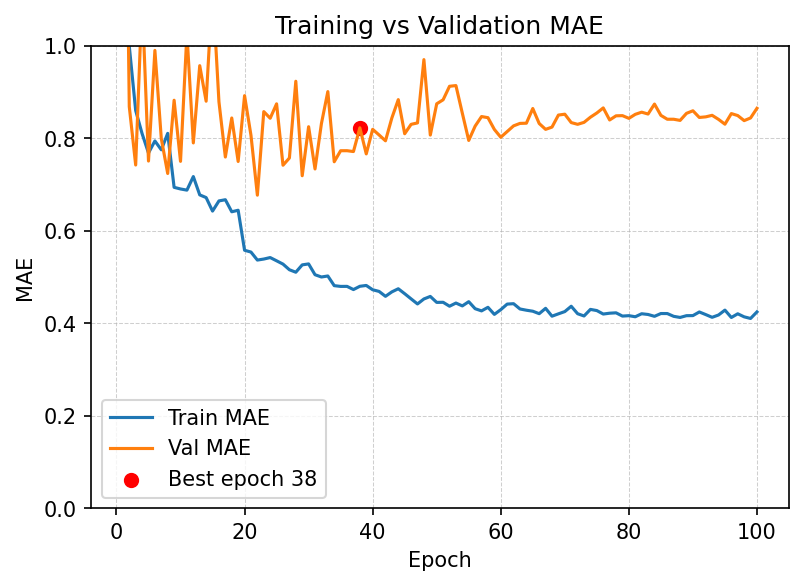
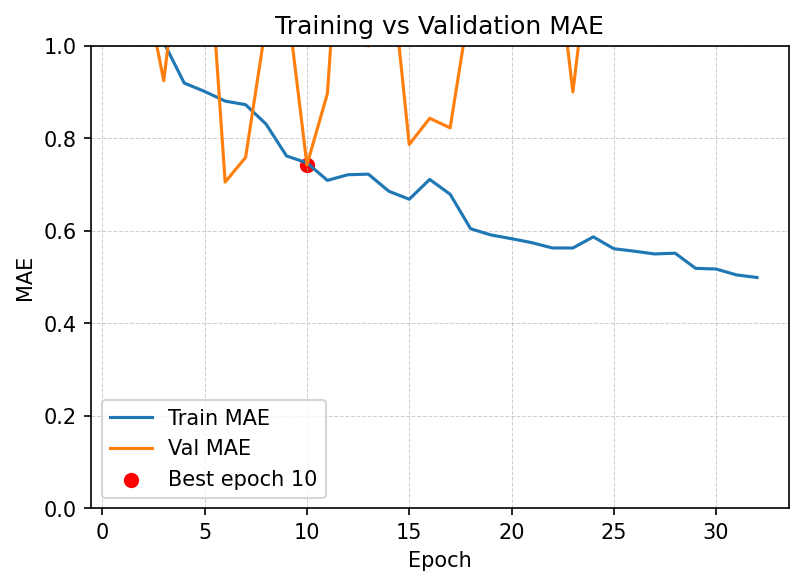
lr reset

diff --git a/models/model_v8/train.py b/models/model_v8/train.py
@@ -31,7 +31,7 @@ class TrainConfig:
     rgb_dir: str = '../../datasets/Training/Augmented_v8/RGBImages'
     depth_dir: str = '../../datasets/Training/Augmented_v8/DepthImages'
 
-    batch_size: int = 32
+    batch_size: int = 128
     num_epochs: int = 100
     lr: float = 1e-3
     weight_decay: float = 1e-5
@@ -45,7 +45,7 @@ class TrainConfig:
     outputs_per_original: int = 41
     num_folds: int = 1
     group_by_original: bool = True
-    val_only_originals: bool = True
+    val_only_originals: bool = False
 
     preload_to_gpu: bool = True
     preload_device: str = 'cuda'
@@ -269,6 +269,16 @@ def decay_block_warmups(tracker: Dict[Tuple[str, int], Dict[str, int]]) -> None:
             to_remove.append(key)
     for key in to_remove:
         tracker.pop(key, None)
+
+
+def _create_scheduler(optimizer: optim.Optimizer, cfg: TrainConfig):
+    return optim.lr_scheduler.ReduceLROnPlateau(
+        optimizer,
+        mode='min',
+        factor=cfg.scheduler_factor,
+        patience=cfg.scheduler_patience,
+        min_lr=cfg.scheduler_min_lr,
+    )
 
 
 class TensorDictDataset(Dataset):
@@ -555,13 +565,7 @@ def train_fusion_regressor(
     else:
         criterion = nn.L1Loss()
     optimizer = optim.AdamW(model.parameters(), lr=cfg.lr, weight_decay=cfg.weight_decay)
-    scheduler = optim.lr_scheduler.ReduceLROnPlateau(
-        optimizer,
-        mode='min',
-        factor=cfg.scheduler_factor,
-        patience=cfg.scheduler_patience,
-        min_lr=cfg.scheduler_min_lr,
-    )
+    scheduler = _create_scheduler(optimizer, cfg)
     stopper = EarlyStopper(cfg.patience)
 
     best_name = f'best_model_v8{fold_suffix}.pth' if fold_suffix else 'best_model_v8.pth'
@@ -602,9 +606,10 @@ def train_fusion_regressor(
 
     try:
         for epoch in range(cfg.num_epochs):
+            reset_scheduler = False
             # Recompute freezing schedule before training so newly unfrozen blocks
             # participate in the current epoch instead of waiting one more.
-            frozen_rgb, _ = maybe_unfreeze_blocks(
+            frozen_rgb, rgb_unfrozen_idx = maybe_unfreeze_blocks(
                 epoch,
                 cfg.unfreeze_start_epoch,
                 rgb_interval,
@@ -613,7 +618,9 @@ def train_fusion_regressor(
                 'RGB',
                 on_rgb_unfreeze,
             )
-            frozen_rgbd, _ = maybe_unfreeze_blocks(
+            if rgb_unfrozen_idx is not None:
+                reset_scheduler = True
+            frozen_rgbd, rgbd_unfrozen_idx = maybe_unfreeze_blocks(
                 epoch,
                 cfg.unfreeze_start_epoch,
                 rgbd_interval,
@@ -622,6 +629,13 @@ def train_fusion_regressor(
                 'RGBD',
                 on_rgbd_unfreeze,
             )
+            if rgbd_unfrozen_idx is not None:
+                reset_scheduler = True
+            if reset_scheduler:
+                for group in optimizer.param_groups:
+                    group['lr'] = cfg.lr
+                scheduler = _create_scheduler(optimizer, cfg)
+                print('[train] scheduler reset to base LR due to block unfreeze')
             model.train()
             train_mae_sum, n_train = 0.0, 0
             train_sup_loss_sum = 0.0
